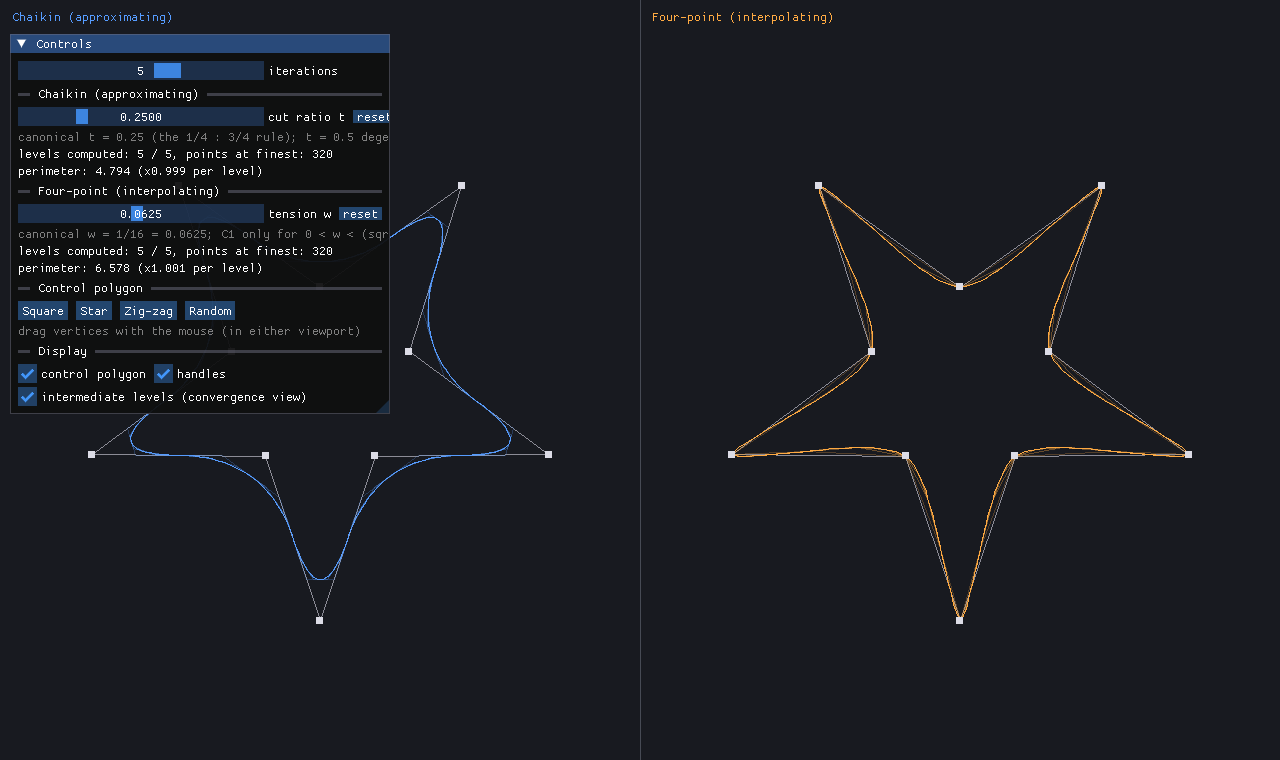
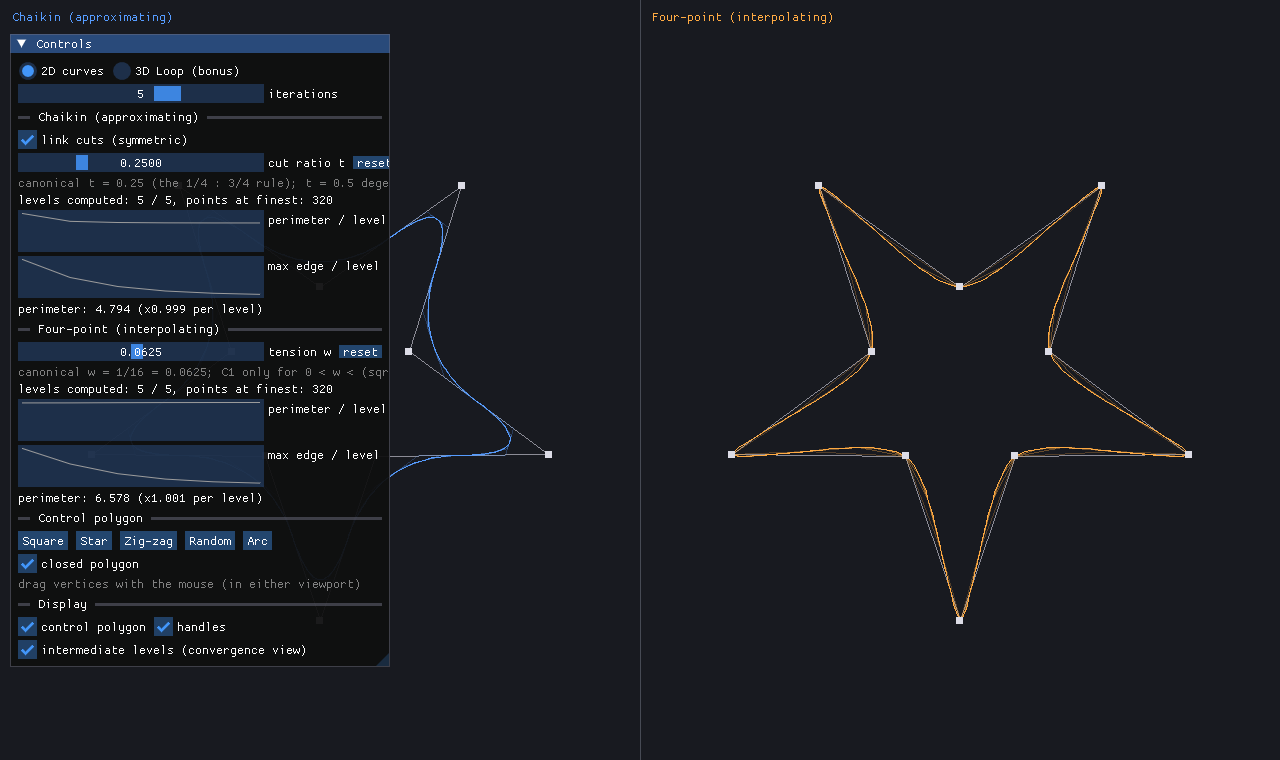
Document convergence plots, open polylines, asymmetric Chaikin
README gains the three features, new controls rows and CLI flags; the
hero screenshot is regenerated to show the plots. REPORT: section 5
describes the plots as the live form of the ratio table (including why
max edge length keeps shrinking even in fractal regimes), new sections
6.3 (open-arc endpoint behavior) and 6.4 (asymmetric cuts: convexity
keeps convergence while symmetry breaks) with figures. TODO Phase 8
ticked; Phase 7's N2/N3 lines cross-referenced.

diff --git a/TODO.md b/TODO.md
@@ -84,10 +84,9 @@ Only if time remains, in this order (each independently committable):
 
 - [ ] N1: insert/delete control vertices with the mouse
       — ☑ commit + push "Add vertex insertion/deletion"
-- [ ] N3: asymmetric Chaikin (independent t₁/t₂)
-      — ☑ commit + push "Add asymmetric Chaikin cuts"
-- [ ] N2: open-polyline mode with endpoint handling
-      — ☑ commit + push "Support open polylines"
+      *(consciously deferred; see PRD)*
+- [x] N3: asymmetric Chaikin (independent t₁/t₂) *(done in Phase 8.3)*
+- [x] N2: open-polyline mode with endpoint handling *(done in Phase 8.2)*
 - [x] S1: 3D bonus — Loop subdivision on a cube, wireframe render
       (separate viewport or mode; no extraordinary-vertex correctness needed)
       — ☑ commit + push "Add Loop subdivision 3D bonus"
@@ -101,37 +100,37 @@ N1, N5, CI, limit-curve overlay and shaded 3D stay deferred (PRD).
 
 ### 8.1 Live convergence plot (M9)
 
-- [ ] `maxEdgeLength()` in `scheme.hpp` (sup-norm convergence indicator)
+- [x] `maxEdgeLength()` in `scheme.hpp` (sup-norm convergence indicator)
       + unit tests alongside `perimeter()`'s
-- [ ] Per-scheme `ImGui::PlotLines` of perimeter and max edge length per
+- [x] Per-scheme `ImGui::PlotLines` of perimeter and max edge length per
       level in `ui.cpp::schemeStats()` (no AppState changes)
-- [ ] Manual check: canonical weights → flat/decaying plots; fractal
+- [x] Manual check: canonical weights → flat/decaying plots; fractal
       weights → growing perimeter, non-vanishing max edge
-- [ ] ☑ **Commit + push**: "Add live convergence plots to the panel"
+- [x] ☑ **Commit + push**: "Add live convergence plots to the panel"
 
 ### 8.2 Open-polyline mode (N2)
 
-- [ ] "closed polygon" checkbox in the Control-polygon section (sets dirty)
-- [ ] `presets::arc()` open preset + preset button + `--preset arc` CLI value
-- [ ] Unit test for the arc preset; manual check that both schemes keep
+- [x] "closed polygon" checkbox in the Control-polygon section (sets dirty)
+- [x] `presets::arc()` open preset + preset button + `--preset arc` CLI value
+- [x] Unit test for the arc preset; manual check that both schemes keep
       endpoints (math already unit-tested since Phases 2–3)
-- [ ] ☑ **Commit + push**: "Add open-polyline mode with arc preset"
+- [x] ☑ **Commit + push**: "Add open-polyline mode with arc preset"
 
 ### 8.3 Asymmetric Chaikin (N3)
 
-- [ ] `ChaikinScheme`: `t1`/`t2` members, cuts `lerp(A,B,t1)` and
+- [x] `ChaikinScheme`: `t1`/`t2` members, cuts `lerp(A,B,t1)` and
       `lerp(A,B,1−t2)`; single-float constructor keeps call sites valid
-- [ ] "link cuts (symmetric)" checkbox (default on = current behavior);
+- [x] "link cuts (symmetric)" checkbox (default on = current behavior);
       unlinked shows two sliders; reset restores 0.25/0.25 and re-links
-- [ ] `--chaikin-t2` CLI flag for reproducible figures
-- [ ] Unit tests: hand-computed asymmetric step; linked == symmetric
-- [ ] ☑ **Commit + push**: "Add asymmetric Chaikin cuts"
+- [x] `--chaikin-t2` CLI flag for reproducible figures
+- [x] Unit tests: hand-computed asymmetric step; linked == symmetric
+- [x] ☑ **Commit + push**: "Add asymmetric Chaikin cuts"
 
 ### 8.4 Documentation
 
-- [ ] README controls table: plots, closed-polygon toggle, Arc preset,
+- [x] README controls table: plots, closed-polygon toggle, Arc preset,
       link-cuts toggle, new CLI flags
-- [ ] REPORT: convergence plot as the live form of §5; open-polyline and
+- [x] REPORT: convergence plot as the live form of §5; open-polyline and
       asymmetric-Chaikin observations with figures
-- [ ] ☑ **Commit + push**: "Document convergence plots, open polylines,
+- [x] ☑ **Commit + push**: "Document convergence plots, open polylines,
       asymmetric Chaikin"

diff --git a/docs/REPORT.md b/docs/REPORT.md
@@ -48,6 +48,12 @@ The optional **3D bonus (S1)** was also completed after the 2D core:
 Loop subdivision applied to a cube, shown as a rotating wireframe
 (section 7).
 
+A later scope decision (documented in PRD/PLAN/TODO) added three more
+features, chosen for maximal reuse of the existing infrastructure:
+**live convergence plots** (M9, the ratio table of section 5 as a live
+instrument), **open-polyline mode** (N2), and **asymmetric Chaikin** (N3) —
+sections 5 and 6.4–6.5.
+
 ## 3. Architecture and design decisions
 
 ```
@@ -158,7 +164,16 @@ level):
 
 The separation is sharp: everything convergent settles below 1.006, every
 rough/fractal setting sustains ≥ 1.05. The app therefore shows the live
-perimeter ratio per scheme and warns (orange) above a threshold of 1.02. The
+perimeter ratio per scheme and warns (orange) above a threshold of 1.02.
+This table also exists in the app as a **live instrument**: each scheme's
+panel section plots perimeter and max edge length across all levels
+(`ImGui::PlotLines` over the already-retained data). Dragging a weight
+slider makes the character flip visibly — perimeter flattening toward the
+limit arc length in convergent regimes versus growing geometrically in
+fractal ones, while max edge length (the sup-norm indicator, which *must*
+tend to 0 for convergence to a curve) keeps shrinking even in Koch-like
+regimes: roughness accumulating at ever-smaller scales is precisely what
+"fractal" means here. The
 hard coordinate guard was kept as a second line of defense — it is the one
 that protects the renderer from NaN/infinite coordinates if weights are ever
 extended further.
@@ -231,7 +246,38 @@ four-point scheme, with its negative weight, has no such safety net.
   too: ×1.032 per level at `w = −0.15`, ×1.270 at `w = −0.25`. The
   convergent window is bounded in *both* directions.
 
-### 6.3 Approximating vs interpolating, side by side
+### 6.3 Open polylines: endpoint behavior
+
+With the polygon opened (the "closed polygon" toggle, or the Arc preset),
+both schemes pin the endpoints and only refine the interior — Chaikin by
+re-emitting the boundary points around interior cuts, four-point by
+duplicating the missing neighbors at the boundary:
+
+![Open arc under both schemes](img/open-arc.png)
+*The arc preset (216° of a circle, 7 points). Both curves start and end
+exactly at the polyline's endpoints; four-point additionally passes through
+every interior point.*
+
+This feature cost almost nothing: endpoint handling was implemented and
+unit-tested in the math core from the start (Phases 2–3), and the `closed`
+flag already flowed through refinement, perimeter measurement, and drawing —
+the addition was one checkbox and one preset.
+
+### 6.4 Asymmetric Chaikin
+
+Unlinking the cut sliders gives the two cuts independent depths: `t₁`
+measured from the edge start, `t₂` from the edge end. The mask's weights
+remain convex (each new point still lies on its edge), so the polygon can
+never explode and the scheme still converges — but the mask loses its
+symmetry and the limit curve visibly favors one side of every corner:
+
+![Asymmetric Chaikin](img/chaikin-asym.png)
+*t₁ = 0.1, t₂ = 0.6: corners are cut lopsidedly, producing a skewed but
+still perfectly convergent curve (perimeter ratio 1.000 in the panel). A
+useful contrast to the four-point experiments: this is a deformation that
+degrades* aesthetics *without ever threatening* convergence.
+
+### 6.5 Approximating vs interpolating, side by side
 
 With both schemes at canonical weights on the same polygon, the contrast the
 project was built to demonstrate is immediate: Chaikin trades exactness for

diff --git a/README.md b/README.md
@@ -23,7 +23,15 @@ experiments: **[docs/REPORT.md](docs/REPORT.md)**.
 - Weight sliders reach far beyond the canonical values; live perimeter
   statistics flag when refinement stops converging (rough/fractal regime),
   plus a hard guard against numeric blow-up
-- Draggable control vertices, shape presets (square, star, zig-zag, random)
+- **Live convergence plots** per scheme: perimeter and max edge length per
+  level, flipping visibly from decaying-to-flat to growing as weights leave
+  the convergent regime
+- **Open-polyline mode** with an arc preset — endpoints stay fixed while the
+  interior smooths
+- **Asymmetric Chaikin**: unlink the cut sliders to give the two cuts
+  independent depths t₁/t₂
+- Draggable control vertices, shape presets (square, star, zig-zag, random,
+  arc)
 - **3D bonus**: Loop subdivision of a cube as a rotating, depth-cued
   wireframe (switchable mode, 0–5 rounds)
 - Reproducible screenshot mode for documentation
@@ -68,17 +76,20 @@ measurement, and the divergence guard.
 | **2D curves / 3D Loop** | Switch between the curve comparison and the 3D bonus view |
 | **iterations** slider | Number of subdivision rounds (0–8), applied to both schemes |
 | **cut ratio t** slider | Chaikin cut parameter; `reset` returns to the canonical 0.25 |
+| **link cuts (symmetric)** | Unlink to control the two Chaikin cuts t₁ (from A) and t₂ (from B) independently |
 | **tension w** slider | Four-point tension; `reset` returns to the canonical 0.0625 |
-| **Square / Star / Zig-zag / Random** | Load a preset control polygon (Random differs each click) |
+| **Square / Star / Zig-zag / Random / Arc** | Load a preset control polygon (Random differs each click; Arc is open) |
+| **closed polygon** | Toggle between a closed polygon and an open polyline with fixed endpoints |
 | **control polygon / handles** | Toggle drawing of the input polygon and its vertex markers |
 | **intermediate levels** | Ghosted earlier levels showing convergence toward the limit curve |
 | **Left-drag a vertex** | Move a control point (works in either viewport; both update) |
 | **Loop iterations** (3D mode) | Rounds of Loop subdivision on the cube (0–5); the base cube shows as a ghost |
 
-Per scheme, the panel reports levels computed, point count, and the finest
-level's perimeter with its per-level growth ratio. An orange warning appears
-when the perimeter keeps growing (the scheme is no longer converging); a red
-one if coordinates overflow the safety bound entirely.
+Per scheme, the panel reports levels computed, point count, live plots of
+perimeter and max edge length across all levels, and the finest level's
+perimeter with its per-level growth ratio. An orange warning appears when
+the perimeter keeps growing (the scheme is no longer converging); a red one
+if coordinates overflow the safety bound entirely.
 
 ## Screenshot mode
 
@@ -90,8 +101,9 @@ every image in the report reproducibly:
     --preset star --iterations 6 --fourpoint-w 0.30
 ```
 
-Flags: `--preset square|star|zigzag|random`, `--iterations n`,
-`--chaikin-t x`, `--fourpoint-w x`, `--mode 2d|3d`, `--loop-iterations n`.
+Flags: `--preset square|star|zigzag|random|arc`, `--iterations n`,
+`--chaikin-t x`, `--chaikin-t2 x`, `--fourpoint-w x`, `--mode 2d|3d`,
+`--loop-iterations n`.
 
 ## Repository layout
 
